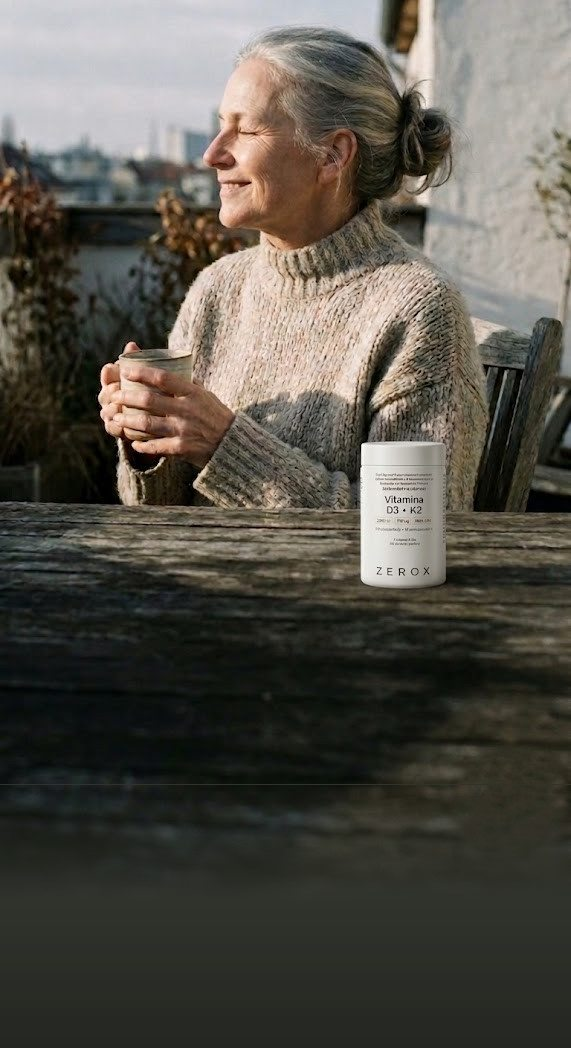
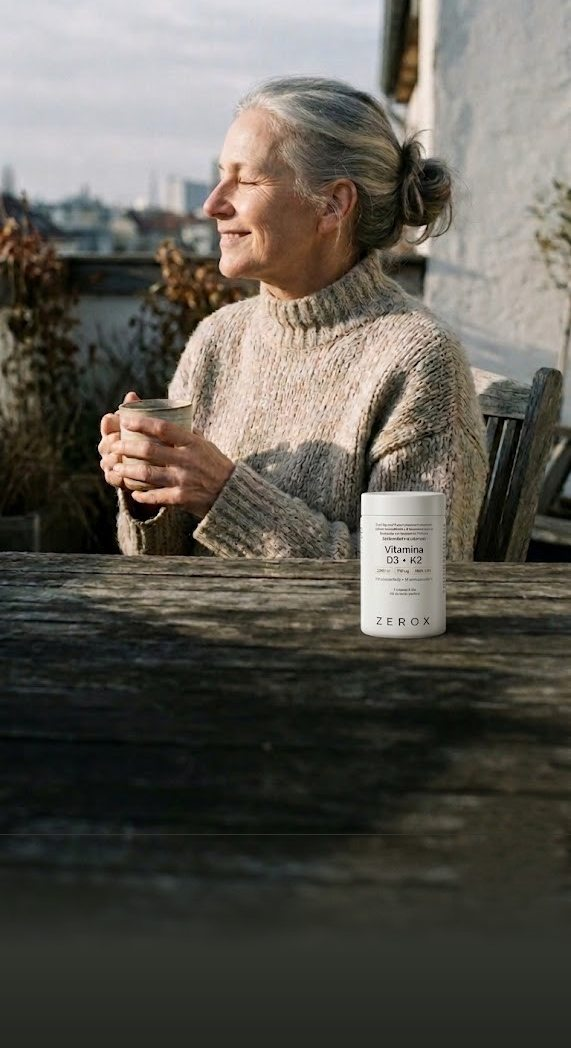
copy: un solo subtitulo por diapositiva del hero, y foto de la D3 recolocada
- fuera el rotulo "MAGNESIO BISGLICINATO": el nombre completo ya lo dice
  el boton justo debajo
- los cinco subtitulos pasan a una sola frase. En las tres que tienen
  alegacion autorizada se deja esa y se retira la ficha tecnica (MK-7,
  "en cantidad declarada", "la forma que mejor se tolera"): el titular de
  cada diapositiva insinua un beneficio, y la alegacion es lo que lo
  ancla legalmente. El probiotico no tiene ninguna aprobada, asi que ahi
  solo se acorta la composicion
- de paso se corrige "reducir el cansancio" por "disminuir", que es la
  redaccion autorizada

Con el subtitulo en una linea el texto entra 27px mas abajo, y eso deja
sitio para bajar la foto de la D3: ella arranca ahora en 49px de la
tarjeta en vez de tocar el borde, y el bote queda entre 303 y 393px.

diff --git a/index.html b/index.html
@@ -1477,7 +1477,7 @@
         <div class="hero-shade"></div>
         <div class="hero-copy">
           <h1 class="hero-headline">Cuatro fórmulas,<br>sin letra pequeña</h1>
-          <p class="hero-lede">Qué lleva, cuánto lleva y por qué. Nada que tengas que buscar con lupa.</p>
+          <p class="hero-lede">Qué lleva, cuánto lleva y por qué.</p>
           <a class="hero-cta" href="#alta">Reserva tu acceso</a>
         </div>
       </div>
@@ -1490,9 +1490,8 @@
         </picture>
         <div class="hero-shade"></div>
         <div class="hero-copy">
-          <p class="hero-lockup">MAGNESIO BISGLICINATO</p>
           <h2 class="hero-headline">El descanso<br>empieza antes<br>de dormir</h2>
-          <p class="hero-lede">Bisglicinato, la forma que mejor se tolera. Contribuye a reducir el cansancio y la fatiga.</p>
+          <p class="hero-lede">Contribuye a disminuir el cansancio y la fatiga.</p>
           <a class="hero-cta" href="#catalogo">Ver Magnesio ZEROX</a>
         </div>
       </div>
@@ -1503,7 +1502,7 @@
         <div class="hero-shade"></div>
         <div class="hero-copy">
           <h2 class="hero-headline">Lo que el invierno<br>no te da</h2>
-          <p class="hero-lede">D3 con K2 en forma MK&ndash;7. Contribuye al mantenimiento de los huesos en condiciones normales.</p>
+          <p class="hero-lede">Contribuye al mantenimiento de los huesos en condiciones normales.</p>
           <a class="hero-cta" href="#catalogo">Ver Vitamina D3+K2 ZEROX</a>
         </div>
       </div>
@@ -1514,7 +1513,7 @@
         <div class="hero-shade"></div>
         <div class="hero-copy">
           <h2 class="hero-headline">Para el corazón,<br>la dosis importa</h2>
-          <p class="hero-lede">EPA y DHA en cantidad declarada. Contribuyen al funcionamiento normal del corazón.</p>
+          <p class="hero-lede">EPA y DHA contribuyen al funcionamiento normal del corazón.</p>
           <a class="hero-cta" href="#catalogo">Ver Omega-3 ZEROX</a>
         </div>
       </div>
@@ -1525,7 +1524,7 @@
         <div class="hero-shade"></div>
         <div class="hero-copy">
           <h2 class="hero-headline">Las cepas, con<br>nombre y apellido</h2>
-          <p class="hero-lede">Multicepa. Cada bacteria identificada en la etiqueta, con sus UFC. Sin relleno.</p>
+          <p class="hero-lede">Cada cepa identificada en la etiqueta, con sus UFC.</p>
           <a class="hero-cta" href="#catalogo">Ver Probiótico ZEROX</a>
         </div>
       </div>
